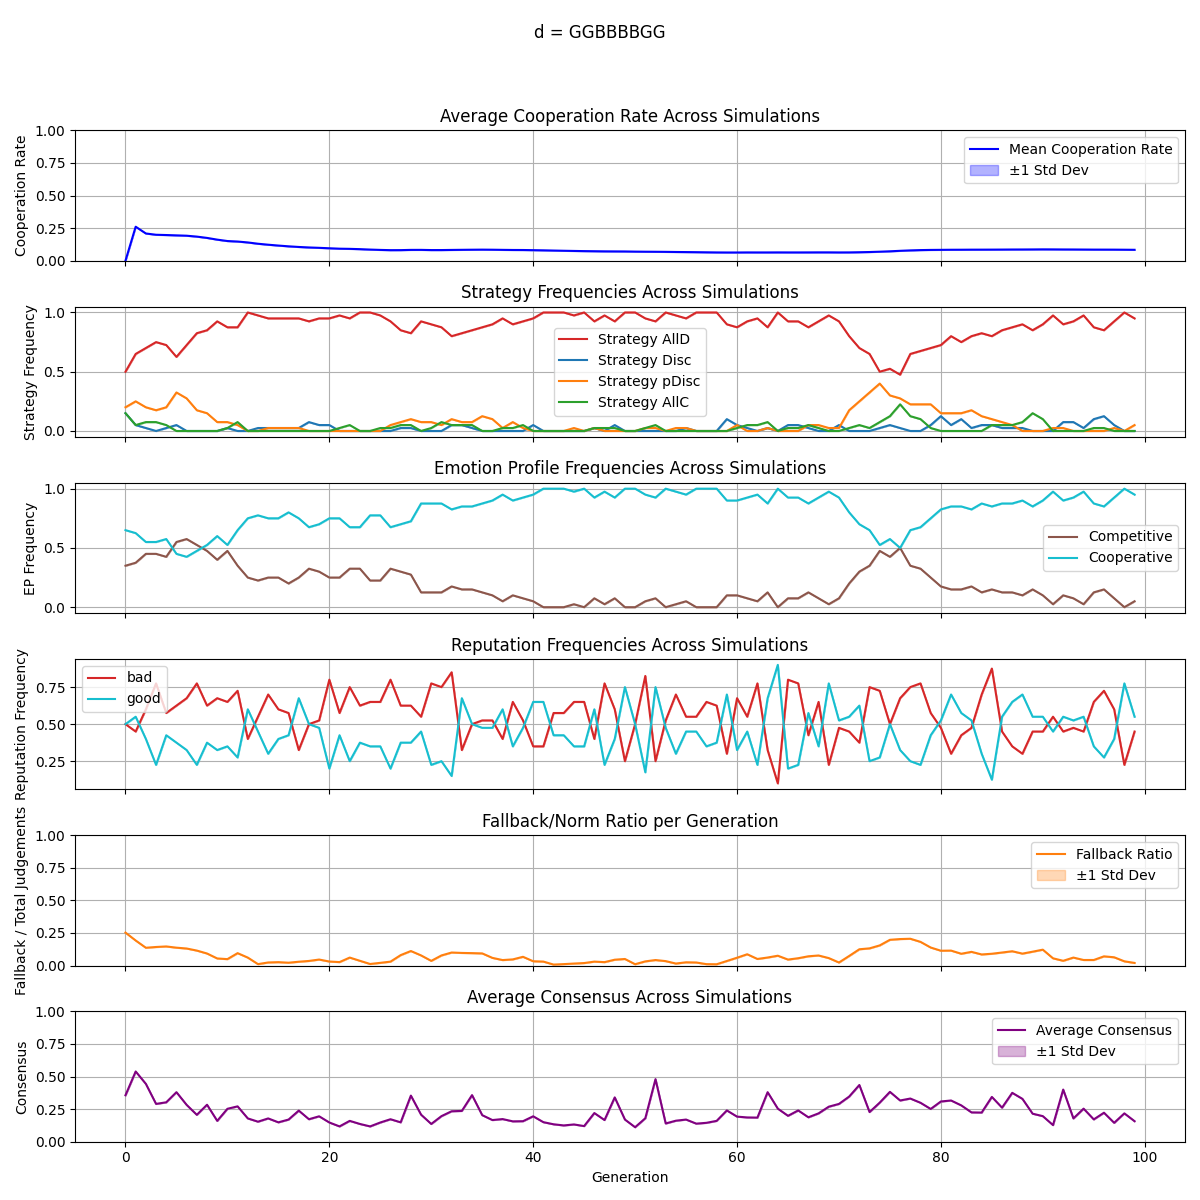
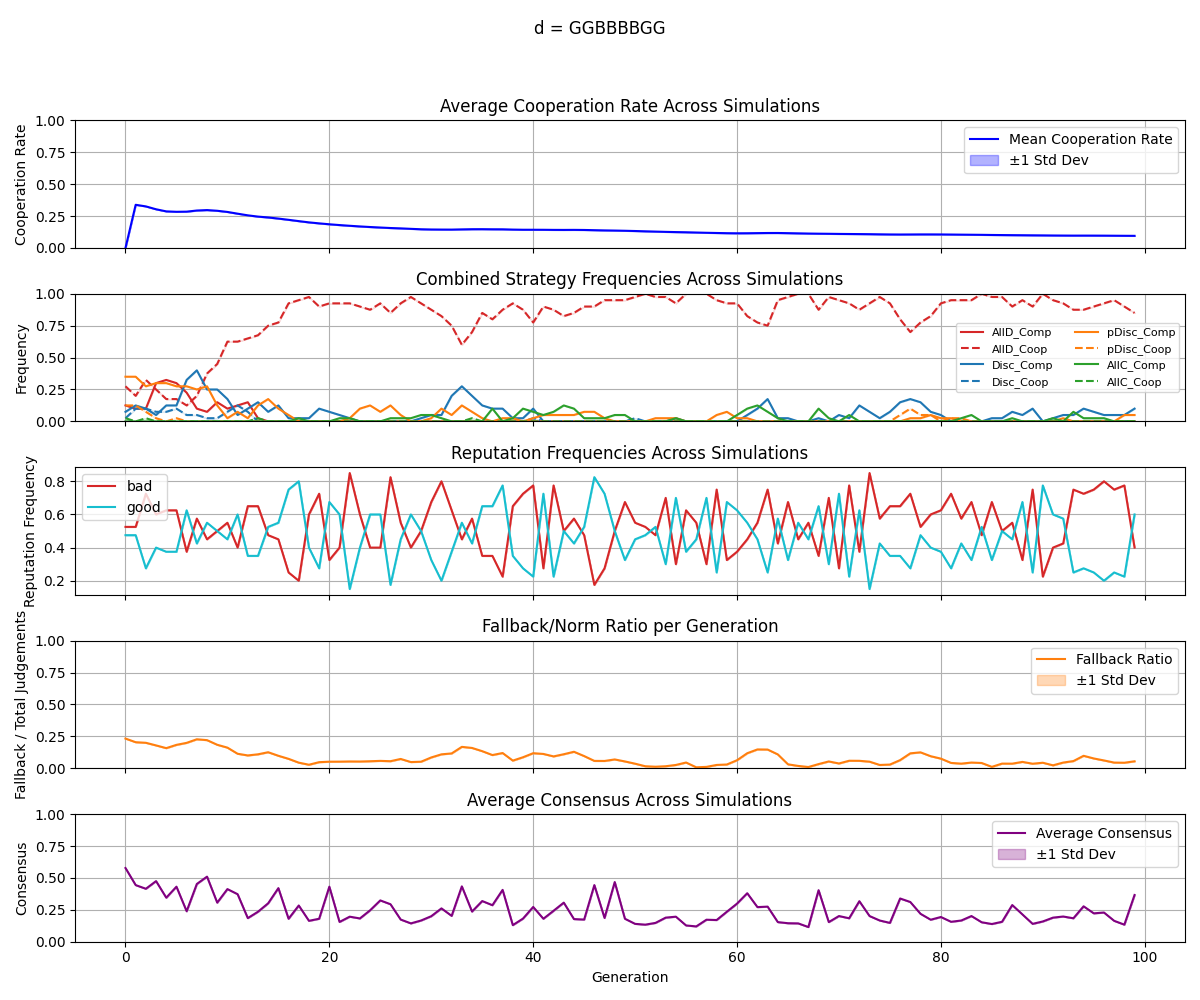
updated ratio tracking
gotta investigate sensibility to population size

diff --git a/SNARE.py b/SNARE.py
@@ -65,7 +65,7 @@ def simulation(model: Model, output_file: str = "results.csv"):
         random_values = rng.random(size=max_randoms_per_gen)
         ri = 0
         gen_fallback = 0
-        gen_norm = 0
+        gen_cooperative_acts = 0
         a1: Agent
         for a1 in aux_population:
             if random_values[ri] < mu:
@@ -98,9 +98,9 @@ def simulation(model: Model, output_file: str = "results.csv"):
                         random_values = np.concatenate((random_values[ri:], extra))
                         ri = 0
 
-                    res_z, n_z, ri, fb_z, nm_z = model.prisoners_dilemma(a1, az, random_values, ri)
+                    res_z, n_z, ri, fb_z, _ = model.prisoners_dilemma(a1, az, random_values, ri)
                     gen_fallback += fb_z
-                    gen_norm += nm_z
+                    gen_cooperative_acts += n_z
 
                     if past_convergence:
                         cooperative_acts += n_z
@@ -123,9 +123,9 @@ def simulation(model: Model, output_file: str = "results.csv"):
                         random_values = np.concatenate((random_values[ri:], extra))
                         ri = 0
 
-                    res_x, n_x, ri, fb_x, nm_x = model.prisoners_dilemma(a2, ax, random_values, ri)
+                    res_x, n_x, ri, fb_x, _ = model.prisoners_dilemma(a2, ax, random_values, ri)
                     gen_fallback += fb_x
-                    gen_norm += nm_x
+                    gen_cooperative_acts += n_x
 
                     if past_convergence:
                         cooperative_acts += n_x
@@ -161,8 +161,9 @@ def simulation(model: Model, output_file: str = "results.csv"):
         avg_gammas[current_gen] = aux.calculate_average_gamma(agents)
         avg_consensus[current_gen] = aux.calculate_average_consensus(model.image_matrix)
 
-        total_judgements = gen_fallback + gen_norm
-        fallback_ratio_per_gen[current_gen] = gen_fallback / total_judgements if total_judgements > 0 else 0
+        num_observers = int(model.observability * model.population_size)
+        denom = gen_cooperative_acts * num_observers
+        fallback_ratio_per_gen[current_gen] = gen_fallback / denom if denom > 0 else 0
 
     aux.export_results(100 * cooperation_per_gen[gens-1], model, agents, filename=f"outputs/{output_file}")
     return cooperation_per_gen, combined_strats, (bad, good), avg_gammas, avg_consensus, fallback_ratio_per_gen
@@ -313,7 +314,7 @@ def plot_time_series(all_results, model):
     axes[current_plot_idx].fill_between(x, fb_mean - fb_std, fb_mean + fb_std,
                          color='tab:orange', alpha=0.3, label='±1 Std Dev')
     axes[current_plot_idx].set_title("Fallback/Norm Ratio per Generation")
-    axes[current_plot_idx].set_ylabel("Fallback / Total Judgements")
+    axes[current_plot_idx].set_ylabel("Fallback / Observer-Judgements")
     axes[current_plot_idx].set_ylim(0, 1)
     axes[current_plot_idx].legend()
     axes[current_plot_idx].grid(True)
@@ -346,12 +347,95 @@ def plot_time_series(all_results, model):
     plt.tight_layout(rect=[0, 0, 1, 0.95])
 
     os.makedirs("simulations", exist_ok=True)
-    ebsn_str = aux.ebsn_to_GB(model.ebsn)
     sn_flat = [item for sublist in model.social_norm for item in sublist]
     sn_str = "".join(map(str, sn_flat))
-    filename = f"simulations/sim_{ebsn_str}_{sn_str}_G{model.generations}_CT{model.consensus_thresh}_Z{model.population_size}_mu{model.mutation_rate}_q{model.observability}_g{model.gamma_normal_center}.png"
-    plt.savefig(filename)
+    timestamp = int(time())
+    base_filename = f"simulations/{sn_str}_G{model.generations}_k{model.consensus_thresh}_z{model.population_size}_q{model.observability}_xi{model.xi}_{timestamp}"
+    plt.savefig(base_filename + ".png")
     plt.close()
+
+    plot_time_series_interactive(all_results, model, base_filename + ".html")
+
+
+def plot_time_series_interactive(all_results, model, filepath):
+    import plotly.graph_objects as go
+    from plotly.subplots import make_subplots
+
+    cooperation_results = [r[0] for r in all_results]
+    combined_strat_results = [r[1] for r in all_results]
+    rep_results = [r[2] for r in all_results]
+    gammas = [r[3] for r in all_results]
+    consensus = [r[4] for r in all_results]
+    fallback_ratios = [r[5] for r in all_results]
+
+    gens = cooperation_results[0].shape[0]
+    x = list(range(gens))
+
+    def stats(arrays):
+        m = np.stack(arrays)
+        return m.mean(axis=0), m.std(axis=0)
+
+    coop_mean, coop_std = stats(cooperation_results)
+    combined_matrix = np.stack(combined_strat_results)
+    combined_mean = combined_matrix.mean(axis=0)
+    combined_std = combined_matrix.std(axis=0)
+    rep_mean, rep_std = stats(rep_results)
+    gammas_mean, gammas_std = stats(gammas)
+    consensus_mean, consensus_std = stats(consensus)
+    fb_mean, fb_std = stats(fallback_ratios)
+
+    show_gamma = model.gamma_delta != 0
+    show_consensus = model.observability != 1
+    num_plots = 4 + int(show_gamma) + int(show_consensus)
+    subplot_titles = ["Cooperation Rate", "Combined Strategy Frequencies", "Reputation Frequencies", "Fallback Ratio"]
+    if show_gamma:
+        subplot_titles.append("Average Gamma")
+    if show_consensus:
+        subplot_titles.append("Average Consensus")
+
+    fig = make_subplots(rows=num_plots, cols=1, shared_xaxes=True, subplot_titles=subplot_titles,
+                        vertical_spacing=0.04)
+
+    def band(fig, row, x, mean, std, name, color, dash="solid", showlegend=True):
+        upper = (mean + std).tolist()
+        lower = (mean - std).tolist()
+        fig.add_trace(go.Scatter(x=x + x[::-1], y=upper + lower[::-1],
+                                 fill='toself', fillcolor=color, opacity=0.2,
+                                 line=dict(width=0), showlegend=False, hoverinfo='skip'), row=row, col=1)
+        fig.add_trace(go.Scatter(x=x, y=mean.tolist(), name=name,
+                                 line=dict(color=color, dash=dash), showlegend=showlegend), row=row, col=1)
+
+    # Row 1: Cooperation
+    band(fig, 1, x, coop_mean, coop_std, "Cooperation", "blue")
+
+    # Row 2: Combined strategies
+    strat_colors = ['red', 'red', 'royalblue', 'royalblue',
+                    'darkorange', 'darkorange', 'green', 'green']
+    strat_dashes = ['solid', 'dash', 'solid', 'dash', 'solid', 'dash', 'solid', 'dash']
+    for i, label in enumerate(aux.COMBINED_STRATEGY_LABELS):
+        band(fig, 2, x, combined_mean[i], combined_std[i], label, strat_colors[i], strat_dashes[i])
+
+    # Row 3: Reputations
+    band(fig, 3, x, rep_mean[0], rep_std[0], "Bad", "red")
+    band(fig, 3, x, rep_mean[1], rep_std[1], "Good", "cyan")
+
+    # Row 4: Fallback ratio
+    band(fig, 4, x, fb_mean, fb_std, "Fallback Ratio", "darkorange")
+
+    current_row = 5
+    if show_gamma:
+        band(fig, current_row, x, gammas_mean, gammas_std, "Avg Gamma", "blue")
+        current_row += 1
+    if show_consensus:
+        band(fig, current_row, x, consensus_mean, consensus_std, "Avg Consensus", "purple")
+
+    fig.update_xaxes(title_text="Generation", row=num_plots, col=1)
+    fig.update_layout(height=280 * num_plots, title_text="d = " + aux.ebsn_to_GB(model.ebsn),
+                      hovermode="x unified")
+    for row in [1, 2, 4]:
+        fig.update_yaxes(range=[0, 1], row=row, col=1)
+
+    fig.write_html(filepath)
 
 
 def expand_parameter(param):